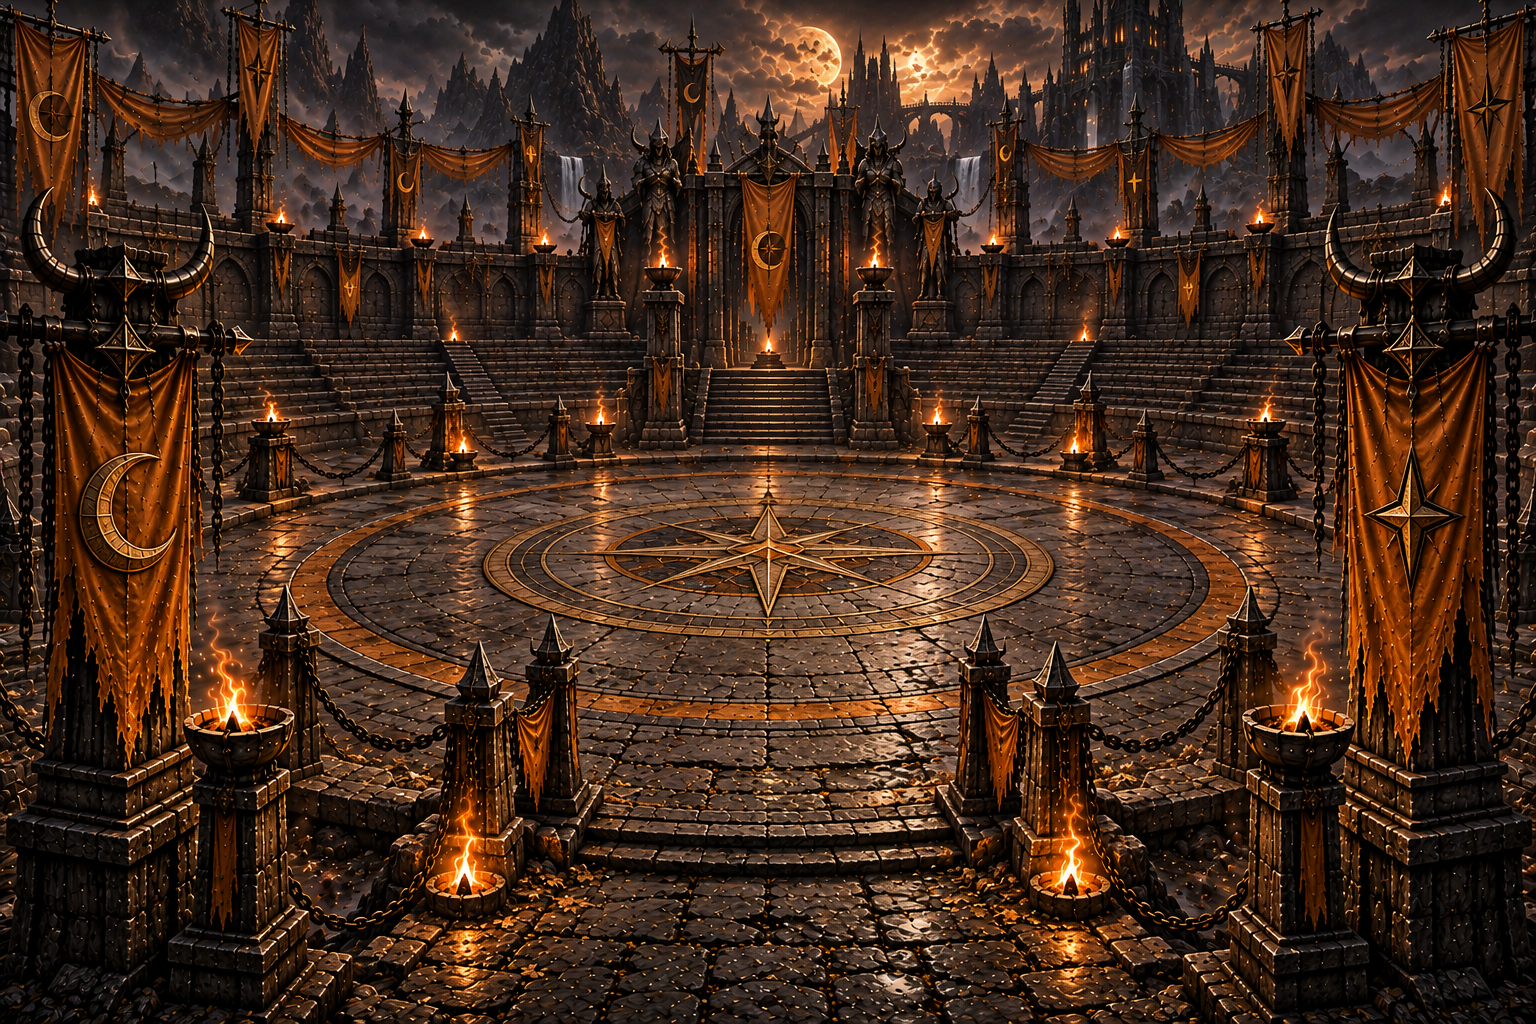
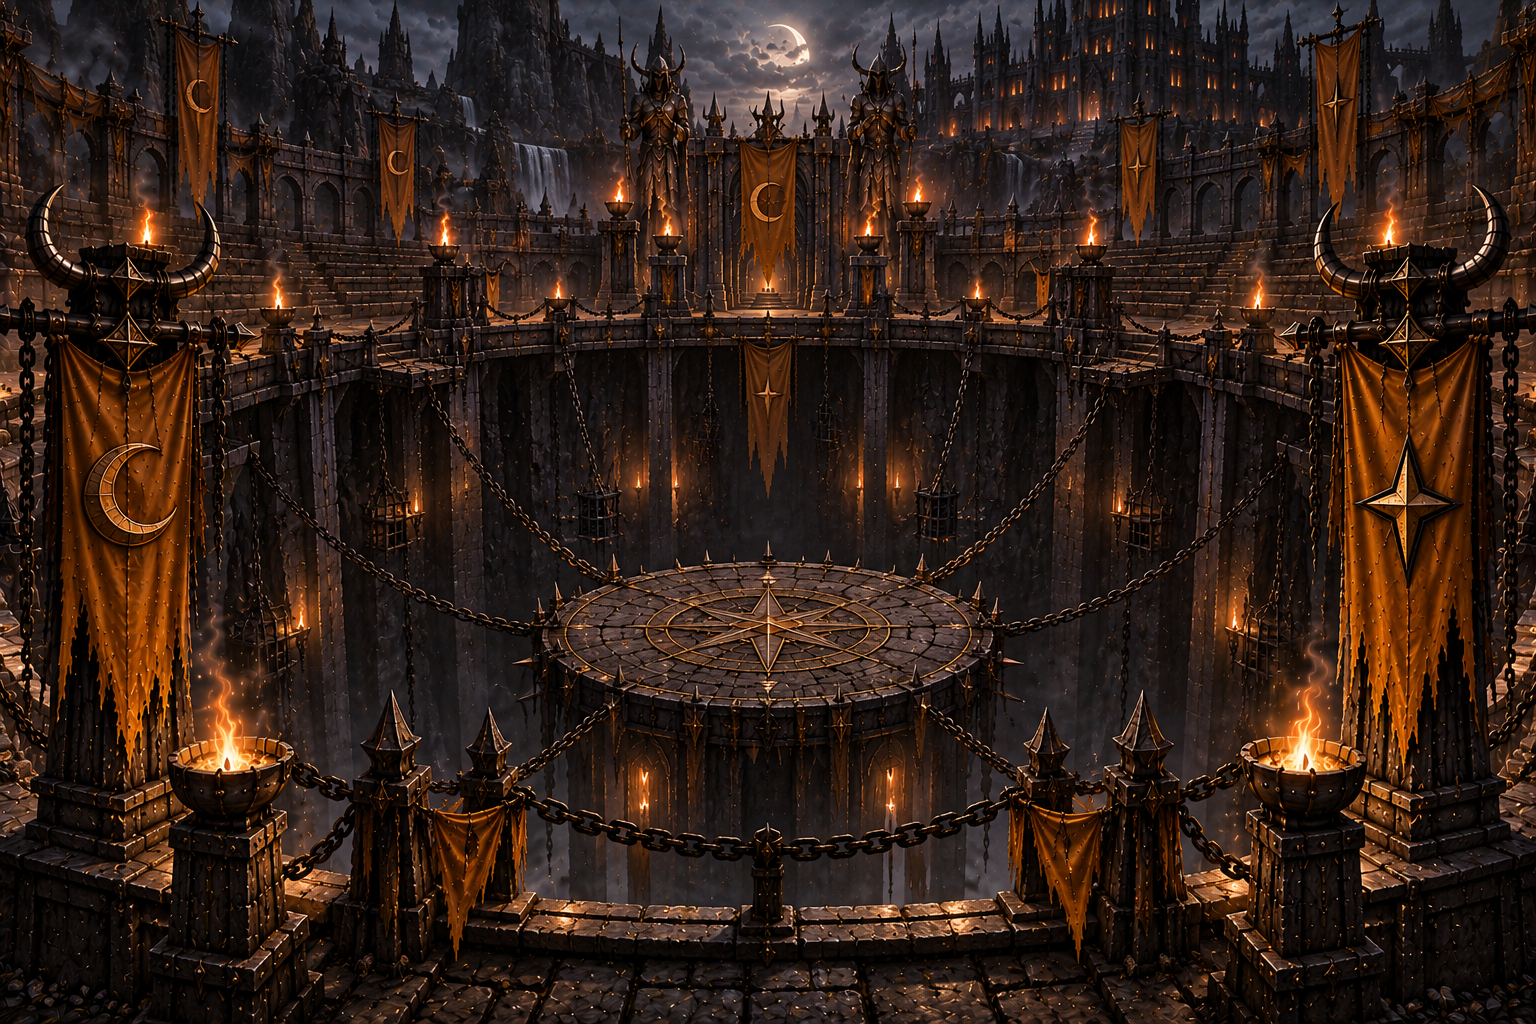
Refresh the arena scenery from the new art.
The original lands beside a 1080-wide WebP re-encoded with the same
recipe the art optimizer uses, and the scene version bumps so cached
browsers fetch the new drawing.

Claude-Session: https://claude.ai/code/session_01JqsJPUg91SJ2mpF1rwQ4XC

diff --git a/src/shared/constants/site.ts b/src/shared/constants/site.ts
@@ -18,5 +18,5 @@ export const TAVERN_MUG_VERSION = "3";
 export const TAVERN_MUG_PATH = "/assets/ui/tavern-mug.webp?v=" + TAVERN_MUG_VERSION;
 export const TAVERN_MUG_PNG_PATH = "/assets/ui/tavern-mug.png?v=" + TAVERN_MUG_VERSION;
 
-export const ARENA_SCENE_VERSION = "1";
+export const ARENA_SCENE_VERSION = "2";
 export const ARENA_SCENE_PATH = "/assets/ui/arena.webp?v=" + ARENA_SCENE_VERSION;
